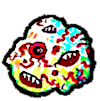
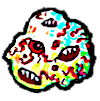
checkpoint

diff --git a/OLD/server/src/level/level7/enemy_mega7.ts b/OLD/server/src/level/level7/enemy_mega7.ts
@@ -4,7 +4,7 @@ import * as G from '../../geom';
 import * as A from '../../animation';
 import * as U from '../../util/util';
 import * as F from '../../facing';
-import * as Ebw from '../../enemy/enemy_bullet_weapon';
+import * as Ebw from '../../enemy/enemy_ball_weapon';
 import * as Rnd from '../../random';
 import * as Fp from '../../enemy/flight_patterns';
 import * as Emk from '../../enemy/enemy_mk';
@@ -12,14 +12,14 @@ import * as Lemk from '../enemy_mk';
 import * as K from '../../konfig';
 
 // match: sprite animation.
-const SIZE = G.v2d_scale_i(G.v2d_mk(130, 54), 0.6);
-const WARPIN_RESOURCE_ID = "enemies/e26/e26l.png";
+const SIZE = G.v2d_scale_i(G.v2d_mk(128, 192), 0.6);
+const WARPIN_RESOURCE_ID = "enemies/e29/e7m1.png";
 const Mega: Lemk.EnemyMk = {
     SIZE,
     WARPIN_RESOURCE_ID,
     warpin_mk: (db: GDB.GameDB): U.O<S.Warpin> => {
 	const anim = new A.AnimatorDimensions(anims_spec_mk(db));
-	const [ewsl, ewsr] = Ebw.scale_specs(db.shared.level_index1, S.Rank.mega);
+	const [ewsl, ewsr] = Ebw.scale_specs(db.shared.level_index1, S.Rank.mega, true);
 	const weapons = {
             'wl': Ebw.weapon_mk(ewsl),
             'wr': Ebw.weapon_mk(ewsr),
@@ -66,35 +66,30 @@ export default Mega;
 
 function anims_spec_mk(db: GDB.GameDB): A.AnimatorDimensionsSpec {
     const frames: A.DimensionsFrame[] = [
-        ...t2a_thrusting_facing_mk(db, F.Facing.left),
-        ...t2a_thrusting_facing_mk(db, F.Facing.right),
-        ...t2a_still_facing_mk(db, F.Facing.left),
-        ...t2a_still_facing_mk(db, F.Facing.right),
+        ...t2a_facing_mk(db, true, F.Facing.left),
+        ...t2a_facing_mk(db, true, F.Facing.right),
+        ...t2a_facing_mk(db, false, F.Facing.left),
+        ...t2a_facing_mk(db, false, F.Facing.right),
     ];
     return A.dimension_spec_mk(db, frames);
 }
 
-function f2s(f: F.Facing): string {
-    return F.on_facing(f, "l", "r");
-}
 const tspecs: Array<[number, string]> = [[1,""]];
-function t2a_thrusting_facing_mk(db: GDB.GameDB, facing: F.Facing): A.DimensionsFrame[] {
+function t2a_facing_mk(db: GDB.GameDB, thrusting: boolean, facing: F.Facing): A.DimensionsFrame[] {
     const table: A.DimensionsFrame[] = [];
     const images = db.uncloned.images;
-    const fstr = f2s(facing);
     tspecs.forEach(spec => {
         const [t, _] = spec;
         table.push({
-            facing: facing,
-            thrusting: true,
-            t: t,
+            facing,
+            thrusting,
+            t,
             animator: A.animator_mk(
                 db.shared.sim_now,
                 {
                     frame_msec: 80,
                     resource_ids: [
-                        ...images.lookup_range_n(n => `enemies/e26/e26t${n}${fstr}.png`, 1, 2),
-			images.lookup(`enemies/e26/e26${fstr}.png`),
+                        ...images.lookup_range_n(n => `enemies/e29/e7m${n}.png`, 1, 3),
                     ],
                     starting_mode: A.MultiImageStartingMode.hold,
                     ending_mode: A.MultiImageEndingMode.bounce
@@ -104,23 +99,3 @@ function t2a_thrusting_facing_mk(db: GDB.GameDB, facing: F.Facing): A.Dimensions
     });
     return table;
 }
-
-function t2a_still_facing_mk(db: GDB.GameDB, facing: F.Facing): A.DimensionsFrame[] {
-    const table: A.DimensionsFrame[] = [];
-    const images = db.uncloned.images;
-    const fstr = f2s(facing);
-    tspecs.forEach(spec => {
-        const [t, _] = spec;
-        table.push({
-            facing: facing,
-            thrusting: false,
-            t: t,
-            animator: A.animator_mk(
-                db.shared.sim_now,
-                { resource_id: images.lookup(`enemies/e26/e26${fstr}.png`) }
-            )
-        });
-    });
-    return table;
-}
-

diff --git a/OLD/client/src/client.ts b/OLD/client/src/client.ts
@@ -259,7 +259,7 @@ class ParticlesEightGenerator extends AbstractParticleGenerator {
 			  self.particles[i + self.oy] = iy;
 			  const ivx = ix - mx;
 			  const ivy = iy - my;
-			  const ySlower = y != 0 ? 0.8 : 1; // ellipsizer.
+			  const ySlower = y != 0 ? 0.7 : 1; // ellipsizeringish.
 			  const d = Math.sqrt(ivx * ivx + ivy * ivy);
 			  self.particles[i + self.ovx] = ivx / d * (speed) * (Math.random() + 0.5);
 			  self.particles[i + self.ovy] = ivy / d * (speed*ySlower) * (Math.random() + 0.5);
@@ -1249,11 +1249,14 @@ function loadImages() {
     loadImage(`enemies/e26/e26t2l.png`);
     loadImage(`enemies/e26/e26t2r.png`);
 
-    [1,2,3].forEach(anim => {
+    [0,1,2,3].forEach(anim => {
 	loadImage(`enemies/e27/e7s${anim}.png`);
     });
     [1,2,3].forEach(anim => {
 	loadImage(`enemies/e28/e7hm${anim}.png`);
+    });
+    [1,2,3].forEach(anim => {
+	loadImage(`enemies/e29/e7m${anim}.png`);
     });
 
     Array.from({length: 10}, (v, i) => i+1).forEach((i) => {

diff --git a/OLD/server/src/level/level7/enemy_small7.ts b/OLD/server/src/level/level7/enemy_small7.ts
@@ -12,7 +12,7 @@ import * as Lemk from '../enemy_mk';
 import * as K from '../../konfig';
 
 // match: sprite animation.
-export const SIZE = G.v2d_scale_i(G.v2d_mk(100, 101), 1);
+export const SIZE = G.v2d_scale_i(G.v2d_mk(100, 101), 0.6);
 export const WARPIN_RESOURCE_ID = "enemies/e27/e7s1.png";
 const Small: Lemk.EnemyMk = {
     SIZE,
@@ -73,7 +73,7 @@ function t2a_facing_mk(db: GDB.GameDB, thrusting: boolean, facing: F.Facing): A.
                 {
                     frame_msec: 80,
                     resource_ids: [
-                        ...images.lookup_range_n(n => `enemies/e27/e7s${n}.png`, 1, 3),
+                        ...images.lookup_range_n(n => `enemies/e27/e7s${n}.png`, 0, 3),
                     ],
                     starting_mode: A.MultiImageStartingMode.hold,
                     ending_mode: A.MultiImageEndingMode.bounce
